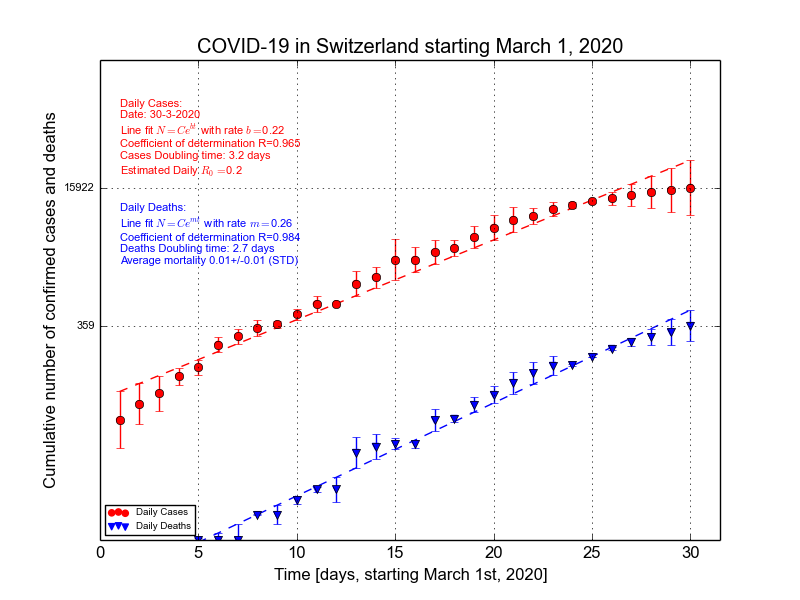
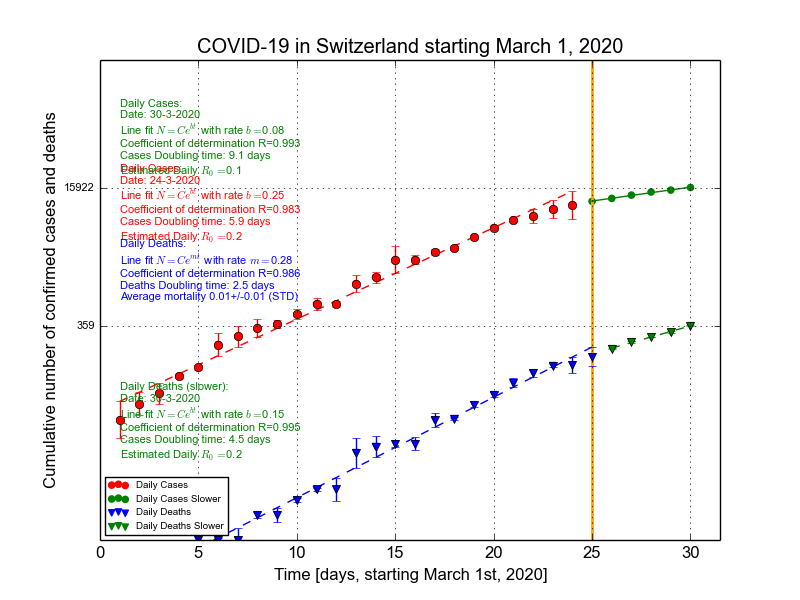
flatten switzerland

diff --git a/cov_model/statsanalysis/linear.py b/cov_model/statsanalysis/linear.py
@@ -25,6 +25,7 @@ def get_slowdown(month):
                     "Slovakia": 21,
                     "Spain": 19,
                     "Sweden": 13,
+                    "Switzerland": 25,
                     "UK": 21}
         # same for deaths
         SLOWDOWN_DEATHS = {"France": 20,
@@ -33,6 +34,7 @@ def get_slowdown(month):
                            "Netherlands": 22,
                            "Romania": 27,
                            "Spain": 15,
+                           "Switzerland": 26,
                            "UK": 21}
     elif month == 4:
         SLOWDOWN = {"Italy": 2}
